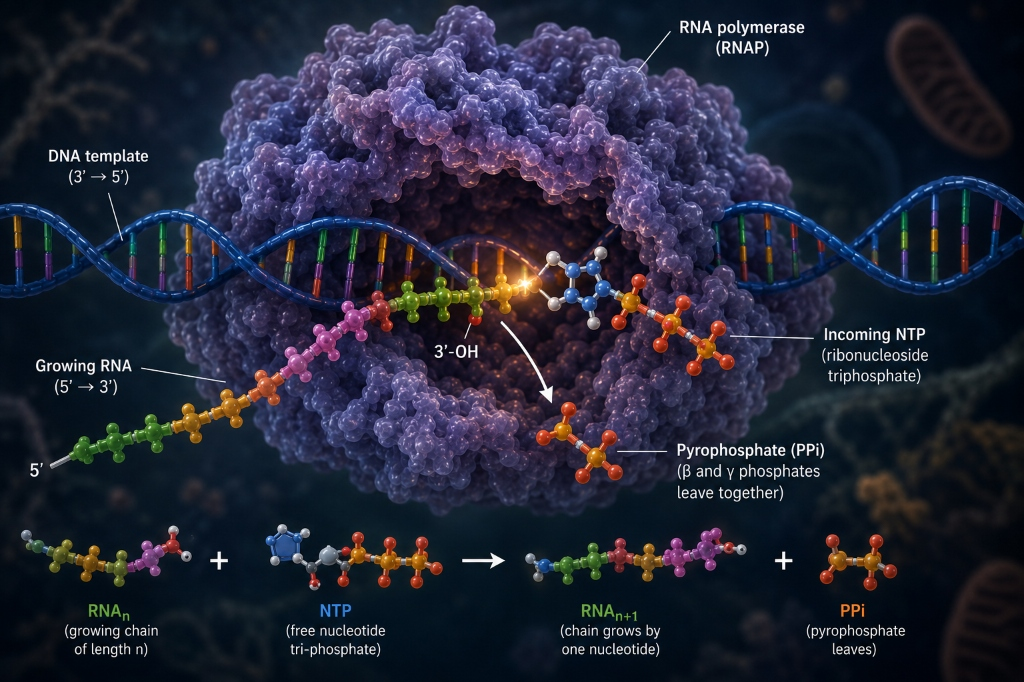
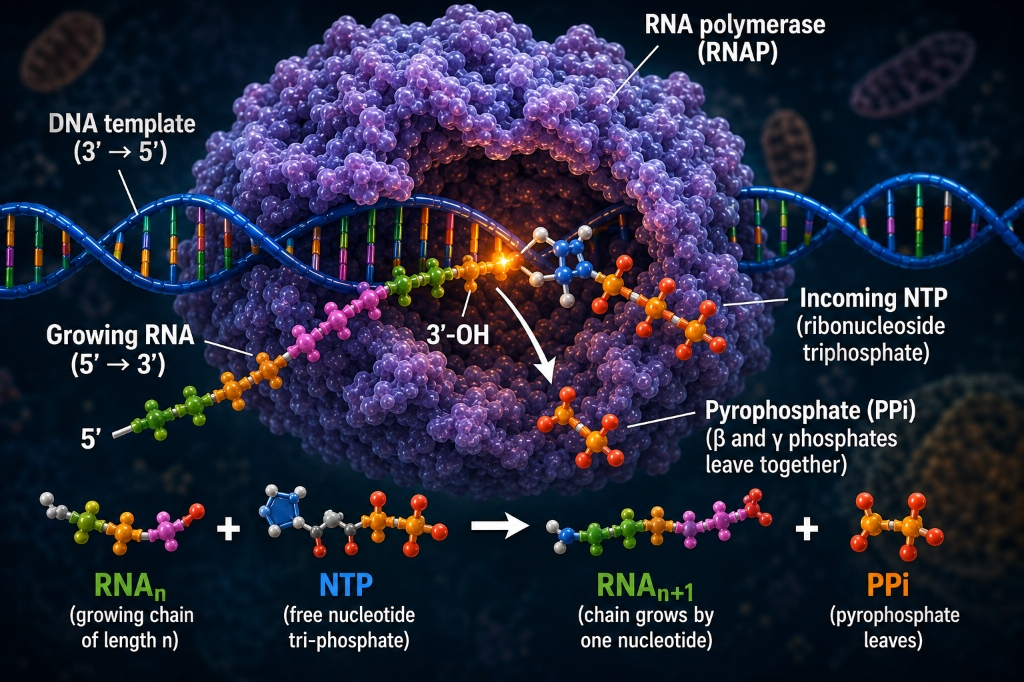
Replace generated images with user provided original reference images

diff --git a/Syllabus explained/Domain-1/Topic 9 Conceptual Families/index.html b/Syllabus explained/Domain-1/Topic 9 Conceptual Families/index.html
@@ -299,7 +299,7 @@
                             </ul>
                             
                             <div style="margin: 2rem 0;">
-                                <img src="topic_9_nucleotide_incorporation.jpg?v=5" alt="Nucleotide incorporation kinetics" style="width: 100%; border-radius: 12px; border: 1px solid rgba(255,0,127,0.3); box-shadow: 0 10px 30px rgba(0,0,0,0.5);" />
+                                <img src="topic_9_nucleotide_incorporation.jpg?v=6" alt="Nucleotide incorporation kinetics" style="width: 100%; border-radius: 12px; border: 1px solid rgba(255,0,127,0.3); box-shadow: 0 10px 30px rgba(0,0,0,0.5);" />
                                 <p style="text-align: center; color: var(--text-muted); font-size: 0.9rem; margin-top: 1rem;">Figure 2: Chemical kinetics of adding a single nucleotide to the growing RNA chain.</p>
                             </div>
                         </div>
@@ -318,7 +318,7 @@
                             <p style="margin-top: 1rem;">Think of it like a car's speedometer. Polymerase speed depends on nucleotide availability, template sequence, pausing, and termination. The derivative simply reads the speedometer at a given moment in time.</p>
                             
                             <div style="margin: 2rem 0;">
-                                <img src="topic_9_polymerase_velocity.jpg?v=5" alt="Polymerase velocity tracking" style="width: 100%; border-radius: 12px; border: 1px solid rgba(255,0,127,0.3); box-shadow: 0 10px 30px rgba(0,0,0,0.5);" />
+                                <img src="topic_9_polymerase_velocity.jpg?v=6" alt="Polymerase velocity tracking" style="width: 100%; border-radius: 12px; border: 1px solid rgba(255,0,127,0.3); box-shadow: 0 10px 30px rgba(0,0,0,0.5);" />
                                 <p style="text-align: center; color: var(--text-muted); font-size: 0.9rem; margin-top: 1rem;">Figure 3: Polymerase velocity tracking the rate of RNA synthesis.</p>
                             </div>
                         </div>
